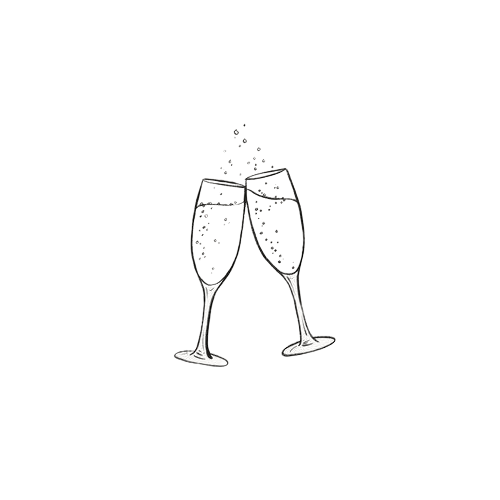
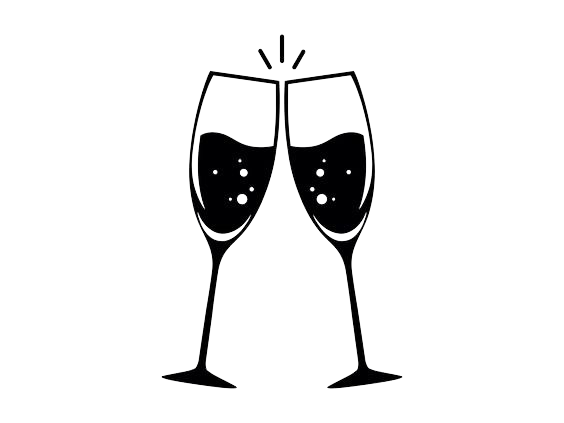
cinc

Changed region(s): [[0.3, 0.0922, 0.72, 0.922]]

diff --git a/style.css b/style.css
@@ -1,6 +1,8 @@
 * body {
     padding: 0;
     box-sizing: border-box;
+    background-image: url(./imagenes/fondo.jpg);
+    background-size: 100%;
   }
   
   /*PORTADA*/
@@ -31,11 +33,11 @@
   .cr-time > span {
       font-size: 18px;
       font-weight: bold;
-      color: #2d56a5;
+      color: #ececec;
       
   }
   .cr-desc {
-      color: rgb(125, 125, 125);
+      color: rgb(201, 220, 218);
        font-family: "Playfair Display", serif;
       
   }
@@ -55,14 +57,14 @@ margin-left: 68%;
     text-align: center;
               font-family: "Poppins", sans-serif;
        font-size: 18px;
-       color: #6b6b6b;
-       margin-top: -705%;
+       color: #ffffff;
+       margin-top: 5%;
   }
 .subtitulo{
       text-align: center;
     font-family: 'Great Vibes', cursive;
-     font-size: 40px;
-     color: #2d56a5;
+     font-size: 45px;
+     color: #d4ddef;
      margin-top: 18%;
      text-align: center;
     
@@ -75,37 +77,47 @@ margin-left: 68%;
 
       text-align: center;
     font-family: 'Great Vibes', cursive;
-     font-size: 40px;
-     color: #2d56a5;
+     font-size: 45px;
+     color: #c9d4ea;
      margin-top: 18%;
     
 }
+.mariposas{
+  width: 30%;
+}
+
+.mariposasdos{
+  width: 30%;
+  margin-left: 75%;
+}
+
+
   .maga{
       text-align: center;
     font-family: 'Great Vibes', cursive;
-     font-size: 43px;
-     color: #2d56a5;
+     font-size: 45px;
+     color: #ccd5e8;
      margin-top: 1%;
   }
 .texto{
     text-align: center;
               font-family: "Poppins", sans-serif;
        font-size: 18px;
-       color: #6b6b6b;
+       color: #ffffff;
        margin-top: -5%;
 }
   .parrafo2{
     text-align: center;
     font-family: 'Great Vibes', cursive;
-     font-size: 40px;
-     color: #2d56a5;
-     margin-top: -5%;
+     font-size: 45px;
+     color: #bac8e4;
+     margin-top: 5%;
   }
   .parrafo3{
     text-align: center;
      font-family: "Poppins", sans-serif;
      font-size: 18px;
-     color: #6f6e6e;
+     color: #ffffff;
   }
   .click1 {
     padding: 2px 10px;
@@ -141,11 +153,11 @@ margin-left: 68%;
     margin-left: 44%;
   }
    .copas{
-    width: 43%;
+    width: 28%;
     display: block;
     margin-left: auto;
     margin-right: auto;
-    margin-top: -5;
+    margin-top: 5;
   }
  .imguno{
   width: 90%;
@@ -162,7 +174,7 @@ margin-left: 68%;
     text-align: center;
     font-family: 'Dancing Script', cursive; 
      font-size: 27px;
-     color: #888888;
+     color: #fefefe;
      margin-top: -40%;
      
 
@@ -238,20 +250,20 @@ margin-left: 68%;
     text-align: center;
     font-family: 'Dancing Script', cursive; 
      font-size: 27px;
-     color: #888888;
+     color: #fefefe;
   }
   .cardtext{
     text-align: center;
     font-family: 'Dancing Script', cursive;
      font-size: 18px;
-     color: #888888;
+     color: #ffffff;
      margin-top: 10%;
   }
   .cardtext1{
     text-align: center;
     font-family: 'Dancing Script', cursive;
      font-size: 18px;
-     color: #888888;
+     color: #ffffff;
      margin-top: 3%;
   }
  
@@ -283,8 +295,8 @@ margin-left: 68%;
  .parrafo6{
    text-align: center;
     font-family: 'Great Vibes', cursive;
-     font-size: 40px;
-     color: #2d56a5;
+     font-size: 45px;
+     color: #c8d4ed;
      margin-top: 5%;
     
      
@@ -301,7 +313,7 @@ margin-left: 68%;
   text-align: center;
     font-family:'Times New Roman', Times, serif; 
      font-size: 17px;
-     color:#2d56a5;
+     color:#e0e3eb;
     
  }
  .whatsap2{
@@ -360,7 +372,7 @@ margin-left: 48%;
 }
  .parrafo_deposito{
   text-align: center;
-  color: #686868;
+  color: #f8f8f8;
   font-size: 25px;
   font-family: 'Great Vibes', cursive;
 
@@ -376,7 +388,7 @@ margin-left: 48%;
 }
 .card_card-body{
   text-align: center;
-  color: #686868;
+  color: #f8f3f3;
   font-size: 16px;
  font-family: 'Lucida Sans', 'Lucida Sans Regular', 'Lucida Grande', 'Lucida Sans Unicode', Geneva, Verdana, sans-serif;
 }
@@ -402,8 +414,8 @@ margin-left: 48%;
          text-align: center;
               font-family: "Poppins", sans-serif;
        font-size: 20px;
-       color: #6b6b6b;
-       margin-top: 20%;
+       color: #fcf8f8;
+       margin-top: -10%;
  }
  .linea4{
   margin-top: -5%;
@@ -420,7 +432,7 @@ margin-left: 48%;
 
 .calendario{
   width: 70%;
-  margin-top: 8%;
+  margin-top: -10%;
    display: block;
     margin-left: auto;
     margin-right: auto;
@@ -617,7 +629,7 @@ margin-top: -50%;
   .music-player {
     width: 50px;
   height: 50px;
-  background: #5b52a0a2;
+  background: #2b2652b1;
   border-radius: 50%;
   display: flex;
   justify-content: center;
@@ -635,7 +647,7 @@ margin-top: -50%;
   }
 
 .music-form {
-      background: #ffffff;
+      background: #617374;
       padding: 15px 20px;
       border-radius: 10px;
       box-shadow: 0 4px 10px rgba(0, 0, 0, 0.1);
@@ -645,7 +657,7 @@ margin-top: -50%;
     }
     .music-form h2 {
       margin-top: 0;
-      color: #333;
+      color: #ffffff;
       text-align: center;
       text-align: center;
     }
@@ -657,7 +669,7 @@ margin-top: -50%;
       display: block;
       margin-bottom: 5px;
       font-weight: bold;
-      color: #555;
+      color: #ffffff;
       text-align: center;
     }
     .form-group input {
@@ -717,8 +729,8 @@ margin-top: -50%;
 
    text-align: center;
     font-family: 'Great Vibes', cursive;
-     font-size: 40px;
-     color: #2d56a5;
+     font-size: 45px;
+     color: #f4f5f6;
      margin-top: 20%;
     
      

diff --git a/index.html b/index.html
@@ -125,16 +125,17 @@
 
         <img class="imguno" src="./imagenes/1.jpeg"></div>
 
+
+<img class="mariposas" src="./imagenes/mariposa.gif" alt="">
+
+
+
         <img class="calendario" src="./imagenes/calen.png"></div>
+<img class="mariposasdos" src="./imagenes/6a08009136972eecc9848611d854d310.gif" alt="">
 
-
- <img class="fondo1" src="imagenes/FONDO.png" alt="">
- <img class="fondo2" src="./imagenes/FONDO.png" alt="">
- <img class="fondo1" src="imagenes/FONDO.png" alt="">
- <img class="fondo2" src="./imagenes/FONDO.png" alt="">
  <div class="cajaceremonia">
-    <p class="parrafo1">¡Tu presencia es el mejor regalo! <br>
-       Acompáñame a celebrar este día tan especial.  </p>  <br><br>
+    <p class="parrafo1">Hoy queda en el recuerdo mi niñez, <br>pero hoy renazco para vivir el momento  <br>
+        más felíz de mi vida: mi adolescencia. <br> Quisiera que estés junto a mi para que compartamos <br> mis 15 años.  </p>  <br><br>
 
    
 
@@ -226,7 +227,7 @@ Lincol 1009
     <!-- <input type="hidden" name="_next" value="https://tusitio.com/gracias.html"> -->
 
     <div class="form-group">
-      <label for="cancion">Nombre de la canción *</label>
+      <label for="cancion">Nombre de la canción *</label> <br>
       <input type="text" id="cancion" name="Canción" placeholder="Ej: Persiana Americana" required>
     </div>
 
@@ -239,6 +240,7 @@ Lincol 1009
 
   
 
+<img class="mariposasdos" src="./imagenes/6a08009136972eecc9848611d854d310.gif" alt="">
 
         <br><br>    
 
@@ -266,6 +268,9 @@ Lincol 1009
 
    <img class="imguno" src="./imagenes/4.jpeg"></div>
     
+<img class="mariposas" src="./imagenes/mariposa.gif" alt="">
+
+<img class="mariposasdos" src="./imagenes/6a08009136972eecc9848611d854d310.gif" alt="">
 
 
 
@@ -273,7 +278,6 @@ Lincol 1009
  <p class="parrafo_esperamos">¡Te espero!</p>
 
 <p class="maga">Kihara</p>
-
 
 
 
